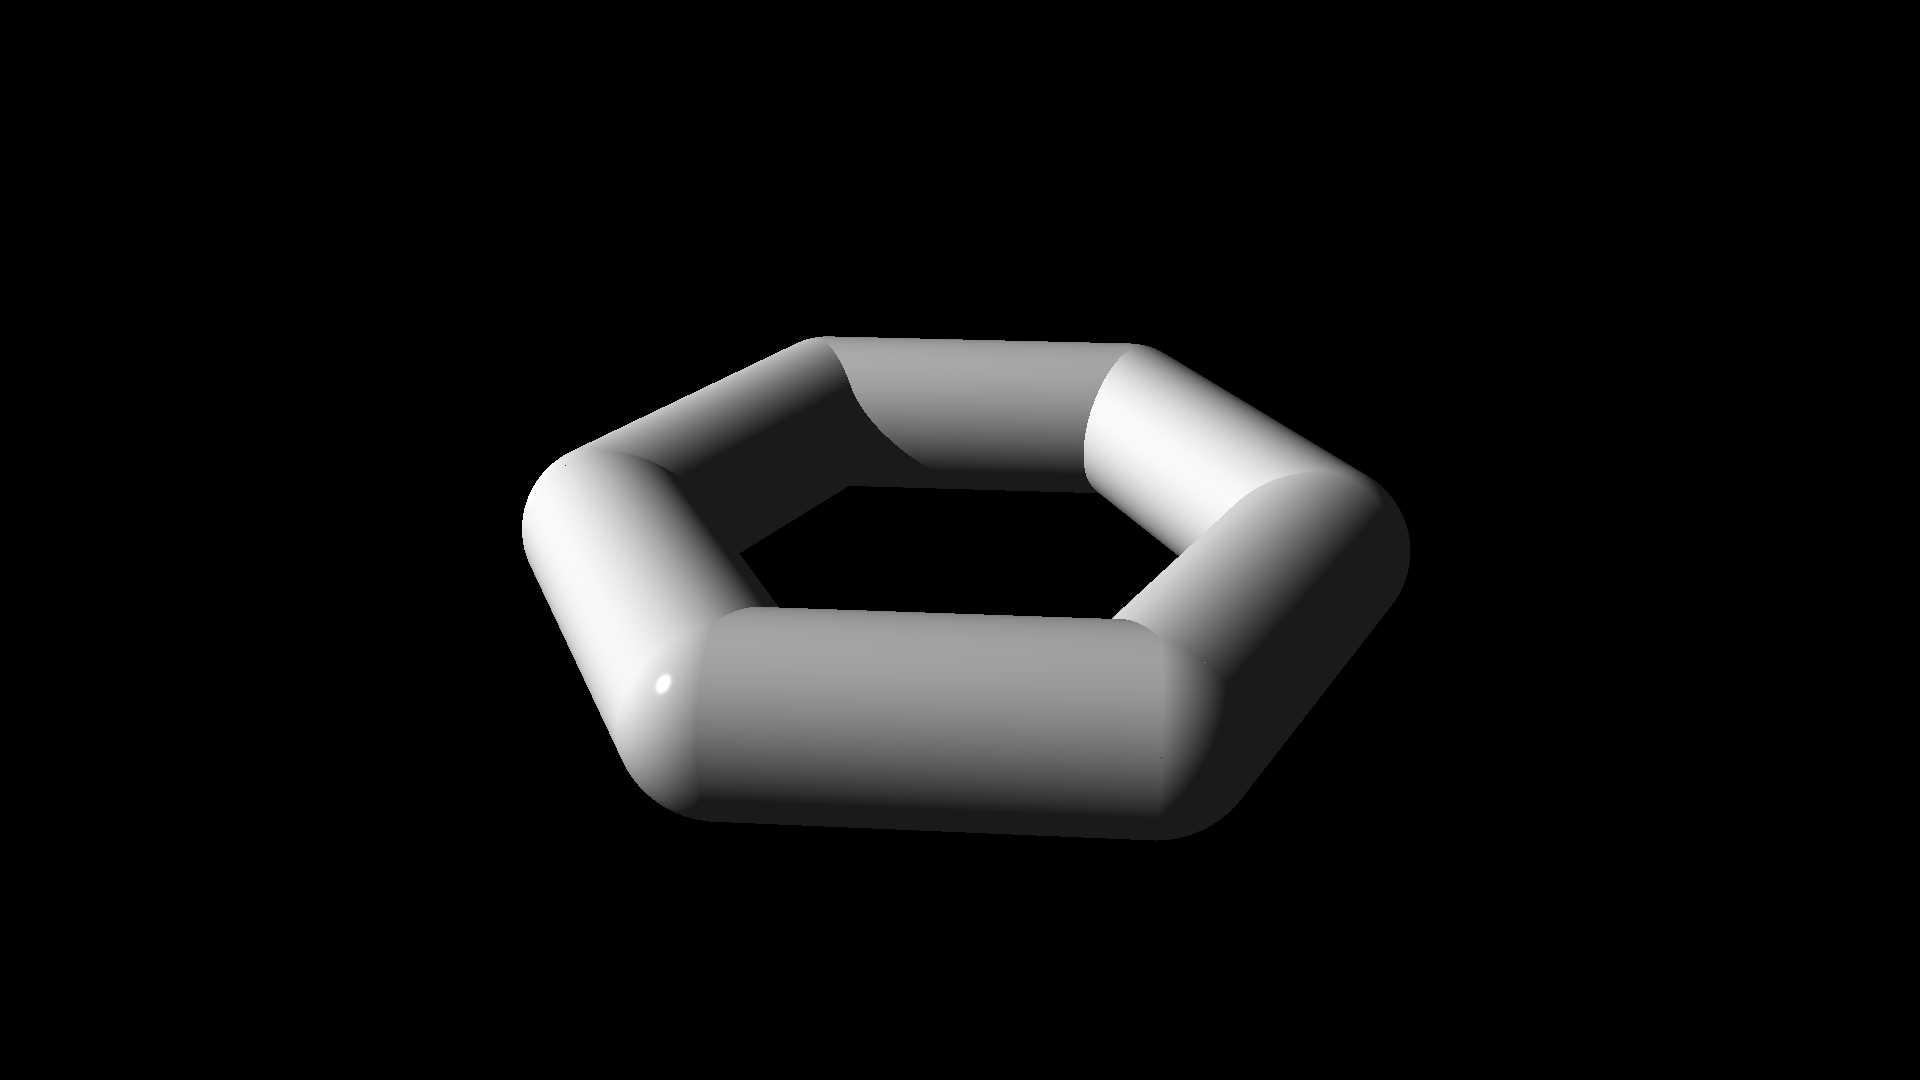
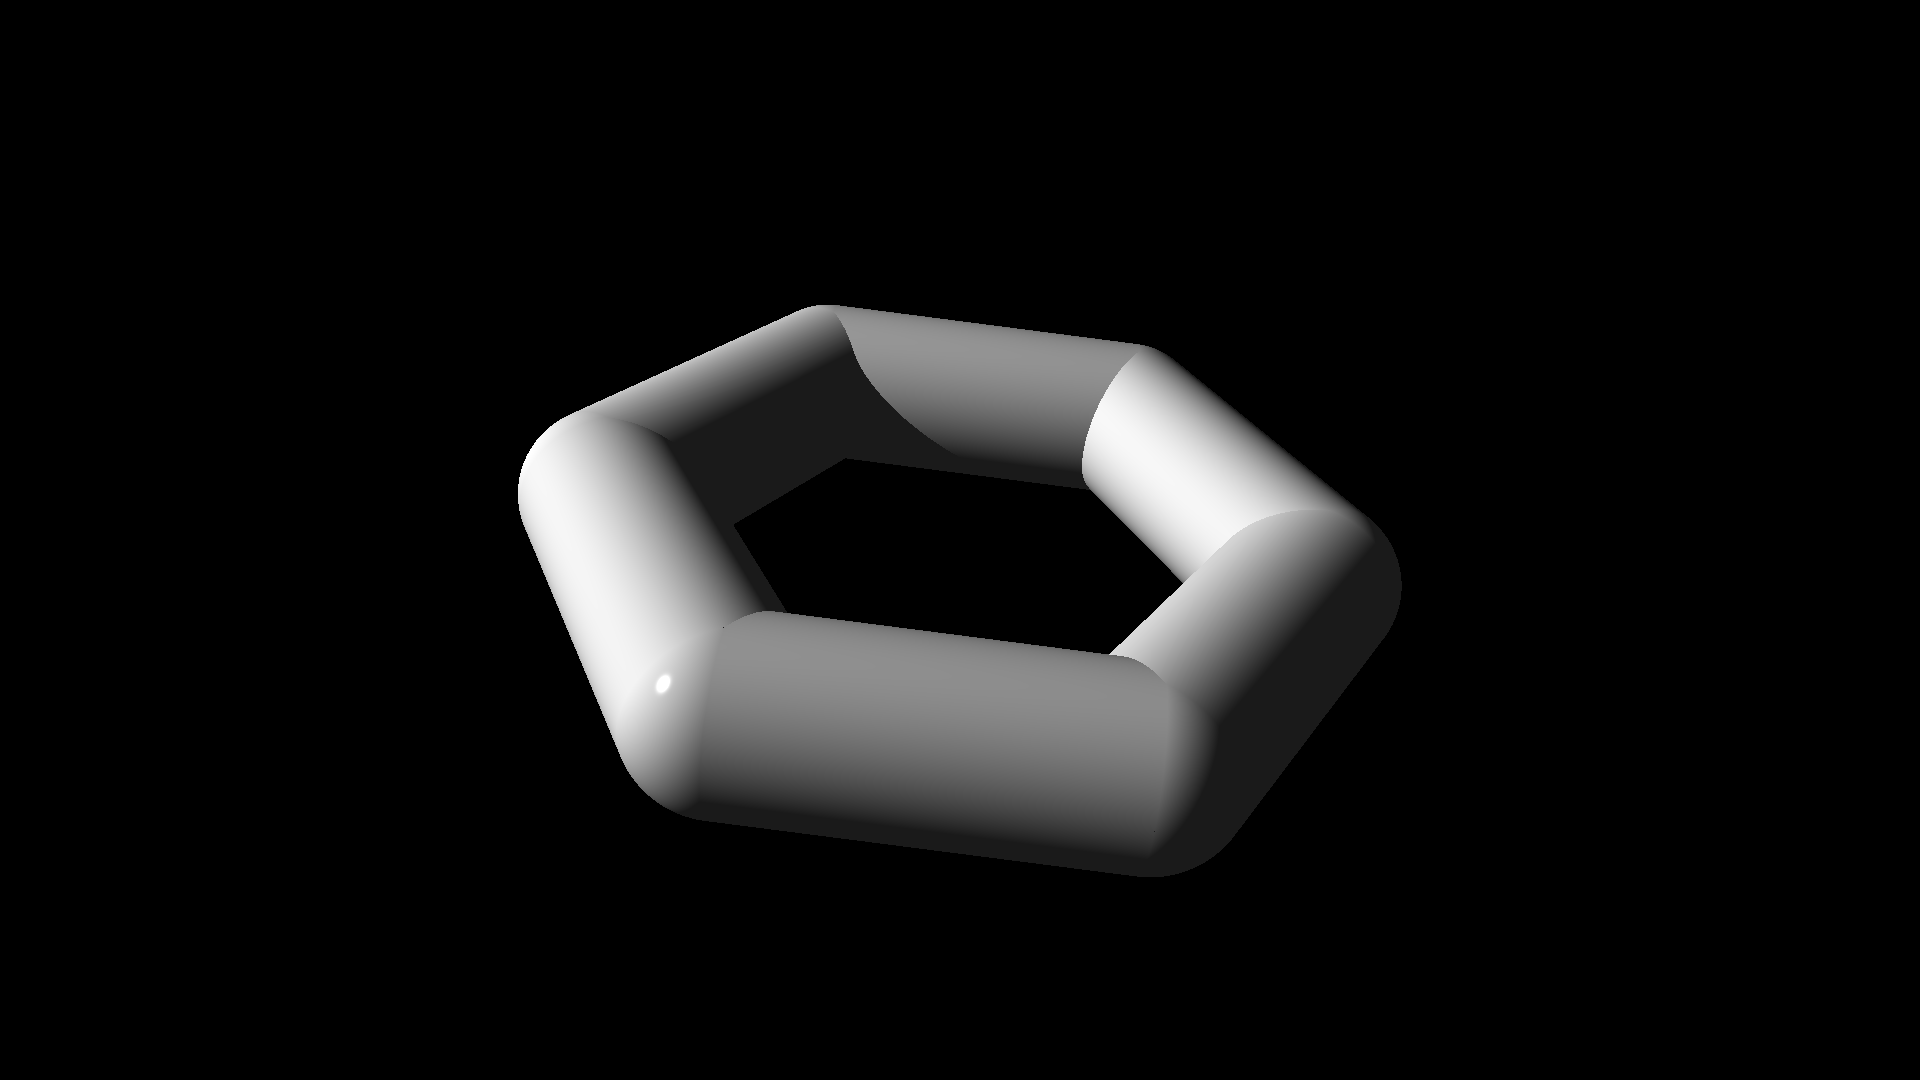
Some further tweaks, now also working with multiple levels of group transforms

diff --git a/src/shape.rs b/src/shape.rs
@@ -135,13 +135,7 @@ impl Shape {
     }
 
     pub fn intersects(&self, world: &World, ray: &Ray) -> Intersections {
-        let mut transform = self.inverse_transformation;
-        if let Some(parent_id) = self.parent {
-            transform =
-                &self.inverse_transformation * &world.get_shape(parent_id).inverse_transformation;
-        }
-
-        let transformed_ray = ray.transform(&transform);
+        let transformed_ray = ray.transform(&self.inverse_transformation);
 
         let v = match &self.shape_type {
             ShapeType::Sphere => sphere_intersects(&transformed_ray),
@@ -165,7 +159,7 @@ impl Shape {
                             intersections.append(
                                 world
                                     .get_shape(*child_id)
-                                    .intersects(world, &ray)
+                                    .intersects(world, &transformed_ray)
                                     .xs
                                     .as_mut(),
                             );

diff --git a/src/scenes/hexagon.rs b/src/scenes/hexagon.rs
@@ -1,4 +1,4 @@
-use std::f64::consts::{FRAC_PI_2, FRAC_PI_3, FRAC_PI_6};
+use std::f64::consts::{FRAC_PI_2, FRAC_PI_3, FRAC_PI_6, FRAC_PI_8};
 
 use crate::{matrix::Matrix, shape::Shape, world::World};
 
@@ -21,7 +21,8 @@ fn hexagon_edge() -> Shape {
 }
 
 pub fn hexagon_scene(mut world: World) -> World {
-    let hexagon = world.add_shape(Shape::group());
+    let hexagon =
+        world.add_shape(Shape::group().with_transform(Matrix::identity().rotate_z(-FRAC_PI_8 / 3.0)));
 
     for i in 0..6 {
         let corner = world.add_shape(hexagon_corner());
